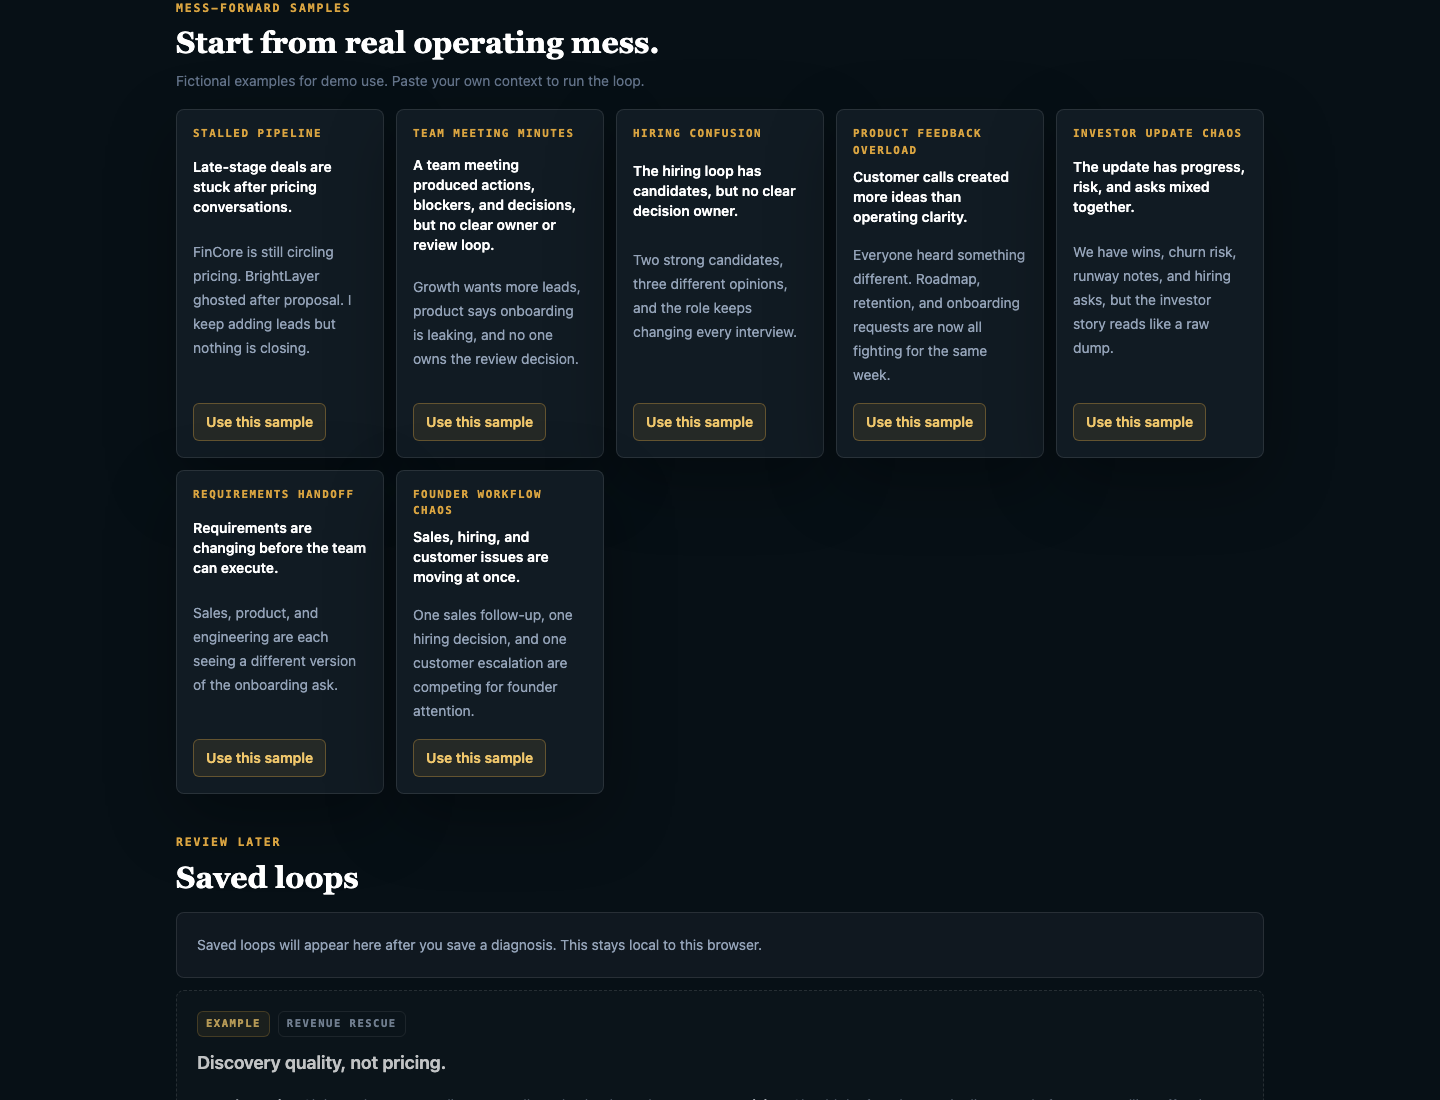
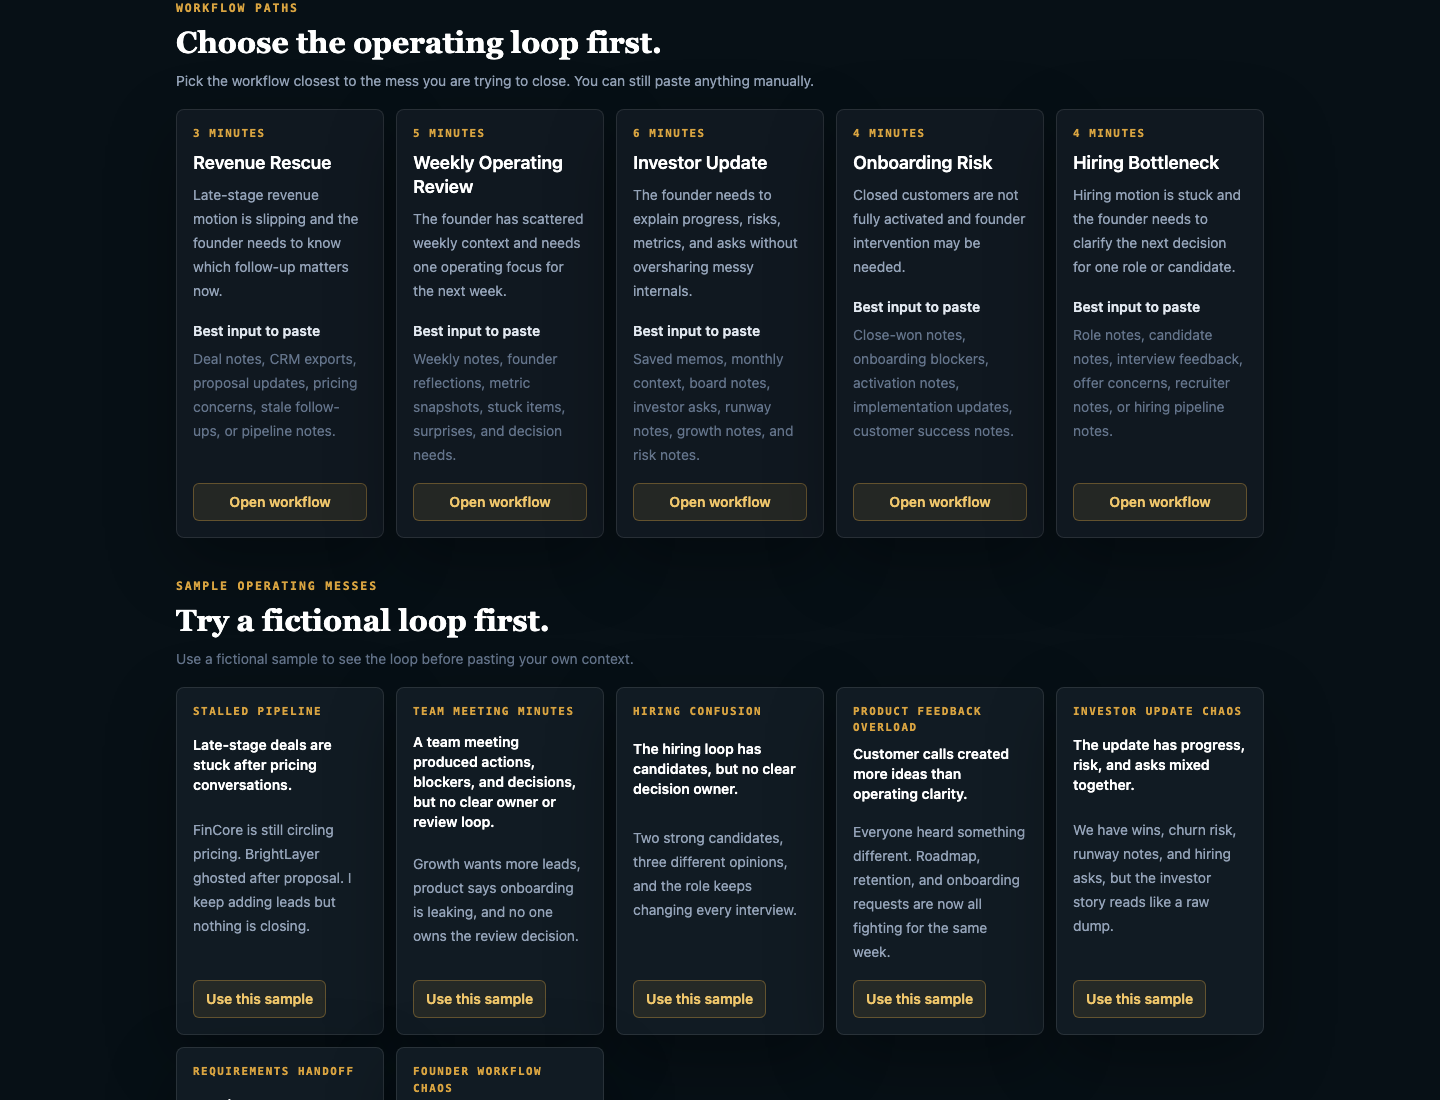
feat: surface workflows on homepage

diff --git a/apps/web/src/components/HomeLoop.tsx b/apps/web/src/components/HomeLoop.tsx
@@ -1,11 +1,13 @@
 "use client";
 
+import Link from "next/link";
 import { useEffect, useMemo, useRef, useState, type ButtonHTMLAttributes, type ReactNode, type RefObject } from "react";
 import {
   DEFAULT_SETTINGS,
   DEFAULT_CONTEXT_SOURCE_ID,
   CONTEXT_SOURCE_OPTIONS,
   STORAGE_KEYS,
+  WORKFLOWS,
   appendCollectionItem,
   contextSourceForId,
   contextSourceLabelForId,
@@ -449,6 +451,51 @@ function InOutWhereStrip() {
   );
 }
 
+function WorkflowRoutingGrid() {
+  return (
+    <section className="grid gap-4" data-testid="workflow-routing-section">
+      <div className="grid gap-2">
+        <p className="font-mono text-[0.72rem] font-semibold uppercase tracking-[0.16em] text-[#d9a441]">
+          Workflow paths
+        </p>
+        <h2 className="font-serif text-2xl font-semibold text-white sm:text-3xl">
+          Choose the operating loop first.
+        </h2>
+        <p className="max-w-2xl text-sm leading-6 text-slate-400">
+          Pick the workflow closest to the mess you are trying to close. You can still paste anything manually.
+        </p>
+      </div>
+      <div className="grid gap-3 md:grid-cols-2 xl:grid-cols-5">
+        {WORKFLOWS.map((workflow) => (
+          <article
+            key={workflow.id}
+            className="flex min-h-[280px] flex-col gap-4 rounded-lg border border-white/10 bg-[#101820] p-4 shadow-dark-soft transition hover:border-[#d9a441]/35 hover:bg-[#14232e]"
+          >
+            <div className="grid gap-2">
+              <p className="font-mono text-[0.68rem] font-semibold uppercase tracking-[0.14em] text-[#d9a441]">
+                {workflow.estimatedTime}
+              </p>
+              <h3 className="text-lg font-semibold leading-6 text-white">{workflow.name}</h3>
+              <p className="text-sm leading-6 text-slate-400">{workflow.problemItSolves}</p>
+            </div>
+            <div className="grid gap-1 text-sm leading-6">
+              <p className="font-semibold text-slate-200">Best input to paste</p>
+              <p className="text-slate-500">{workflow.bestInputToPaste}</p>
+            </div>
+            <Link
+              href={workflow.path}
+              aria-label={`Open ${workflow.name} workflow`}
+              className="mt-auto inline-flex w-full justify-center rounded-md border border-[#d9a441]/35 bg-[#d9a441]/10 px-3 py-2 text-sm font-semibold text-[#f0c76c] transition hover:border-[#d9a441]/60 hover:bg-[#d9a441]/15 focus:outline-none focus:ring-2 focus:ring-[#d9a441]/30"
+            >
+              Open workflow
+            </Link>
+          </article>
+        ))}
+      </div>
+    </section>
+  );
+}
+
 function SampleGrid({
   onUseSample
 }: {
@@ -458,10 +505,10 @@ function SampleGrid({
     <section className="grid gap-4" id="samples">
       <div className="grid gap-2">
         <p className="font-mono text-[0.72rem] font-semibold uppercase tracking-[0.16em] text-[#d9a441]">
-          Mess-forward samples
+          Sample operating messes
         </p>
-        <h2 className="font-serif text-2xl font-semibold text-white sm:text-3xl">Start from real operating mess.</h2>
-        <p className="text-sm leading-6 text-slate-500">Fictional examples for demo use. Paste your own context to run the loop.</p>
+        <h2 className="font-serif text-2xl font-semibold text-white sm:text-3xl">Try a fictional loop first.</h2>
+        <p className="text-sm leading-6 text-slate-500">Use a fictional sample to see the loop before pasting your own context.</p>
       </div>
       <div className="grid gap-3 md:grid-cols-2 xl:grid-cols-5">
         {samples.map((sample) => (
@@ -1118,6 +1165,7 @@ export function HomeLoop() {
       <div className="mx-auto grid max-w-6xl gap-6 px-4 pb-12 sm:gap-8 sm:px-5 sm:pb-16 lg:gap-10 lg:px-8">
         <LandingHero onCompose={openCompose} />
         <InOutWhereStrip />
+        <WorkflowRoutingGrid />
         <section ref={sampleSectionRef}>
           <SampleGrid onUseSample={useSample} />
         </section>

diff --git a/apps/web/e2e/core-loop.spec.ts b/apps/web/e2e/core-loop.spec.ts
@@ -26,6 +26,27 @@ test("founder can complete the ThoroughLoop browser loop", async ({ page }) => {
   await page.evaluate(() => window.localStorage.clear());
   await page.reload();
 
+  await expect(page.getByRole("heading", { name: "Choose the operating loop first." })).toBeVisible();
+  for (const workflowName of [
+    "Revenue Rescue",
+    "Weekly Operating Review",
+    "Investor Update",
+    "Onboarding Risk",
+    "Hiring Bottleneck"
+  ]) {
+    await expect(page.getByRole("heading", { name: workflowName })).toBeVisible();
+  }
+  await expect(page.getByText("Best input to paste").first()).toBeVisible();
+  await expect(page.getByText("3 minutes")).toBeVisible();
+  await expect(page.getByRole("link", { name: "Open Revenue Rescue workflow" })).toHaveAttribute(
+    "href",
+    "/workflows/revenue-rescue"
+  );
+  await expect(page.getByText("Sample operating messes")).toBeVisible();
+  await expect(page.getByRole("button", { name: /Stalled pipeline/ })).toBeVisible();
+  await expect(page.getByText("Demo surfaces")).toHaveCount(0);
+  await expect(page.getByText("Explore ThoroughLoop")).toBeVisible();
+
   await page.getByRole("button", { name: "Paste your context" }).click();
   await expect(page.getByText("More context gives a sharper diagnosis.")).toBeVisible();
   await expect(page.getByLabel("Where is this context coming from?")).toHaveValue("general_notes");

diff --git a/apps/web/src/components/Shell.tsx b/apps/web/src/components/Shell.tsx
@@ -26,9 +26,9 @@ export function Shell({ children }: { children: ReactNode }) {
       <footer className="border-t border-white/10 bg-night px-4 py-6 text-sm text-slate-500 sm:px-5">
         <div className="mx-auto flex max-w-7xl flex-col items-center justify-between gap-3 text-center md:flex-row">
           <p>ThoroughLoop · runs locally in this browser</p>
-          <nav aria-label="Demo surfaces" className="flex flex-wrap items-center justify-center gap-x-3 gap-y-2">
+          <nav aria-label="Explore ThoroughLoop" className="flex flex-wrap items-center justify-center gap-x-3 gap-y-2">
             <span className="font-mono text-[0.68rem] font-semibold uppercase tracking-[0.14em] text-slate-600">
-              Demo surfaces
+              Explore ThoroughLoop
             </span>
             {demoSurfaceLinks.map((link) => (
               <Link

diff --git a/README.md b/README.md
@@ -22,11 +22,11 @@ Landing page introducing the founder workflow, local-first boundary, and main ca
 
 ![Landing page introducing the founder workflow, local-first boundary, and main call to action.](docs/assets/screenshots/01-landing-page.png)
 
-### 2. Choose a founder operating mess
+### 2. Choose the operating loop
 
-Sample cards show common founder situations such as stalled pipeline, team meeting minutes, hiring confusion, product feedback overload, and investor update chaos.
+Workflow cards surface Revenue Rescue, Weekly Operating Review, Investor Update, Onboarding Risk, and Hiring Bottleneck before the secondary sample cards.
 
-![Sample cards showing common founder operating messes.](docs/assets/screenshots/02-sample-context-options.png)
+![Workflow cards showing the main ThoroughLoop operating loops.](docs/assets/screenshots/02-sample-context-options.png)
 
 ### 3. Paste or load the messy context
 
